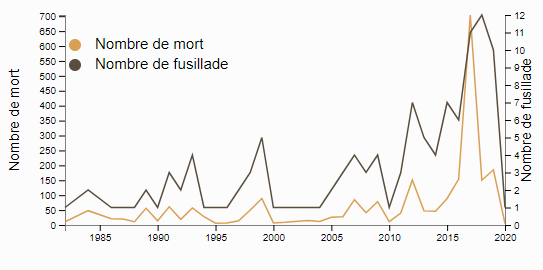
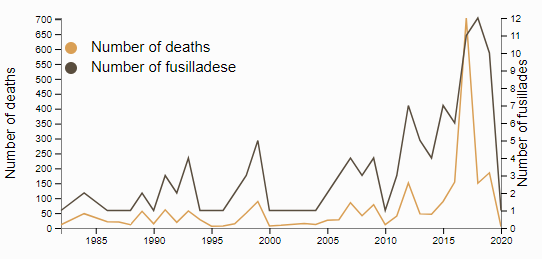
Modification noms

Changed region(s): [[0.0, 0.0309, 1.0, 0.9575]]

diff --git a/d3/lineChart.html b/d3/lineChart.html
@@ -116,7 +116,7 @@
         .attr("x",0 - (height / 2))
         .attr("dy", "1em")
         .style("text-anchor", "middle")
-        .text("Nombre de mort");
+        .text("Number of deaths");
 
         console.log(width);
         svg.append("text")
@@ -125,7 +125,7 @@
         .attr("dy", "1em")
         .attr("transform", "translate( " + (width + 12  ) + ", 0 ) rotate(-90)")
         .style("text-anchor", "middle")
-        .text("Nombre de fusillade");
+        .text("Number of fusillades");
 
         svg.append("path")
           .datum(data)
@@ -139,8 +139,8 @@
 
             svg.append("circle").attr("cx",10).attr("cy",30).attr("r", 6).style("fill", "#D99F55")
             svg.append("circle").attr("cx",10).attr("cy",50).attr("r", 6).style("fill", "#594D3E")
-            svg.append("text").attr("x", 30).attr("y", 30).text("Nombre de mort").style("font-size", "15px").attr("alignment-baseline","middle")
-            svg.append("text").attr("x", 30).attr("y", 50).text("Nombre de fusillade").style("font-size", "15px").attr("alignment-baseline","middle")
+            svg.append("text").attr("x", 30).attr("y", 30).text("Number of deaths").style("font-size", "15px").attr("alignment-baseline","middle")
+            svg.append("text").attr("x", 30).attr("y", 50).text("Number of fusilladese").style("font-size", "15px").attr("alignment-baseline","middle")
 
     })
 

diff --git a/d3/sexe.js b/d3/sexe.js
@@ -7,7 +7,7 @@ d3.csv("../data/us_shootings.csv", (d) => {
     });
     sexe = countOccurences(sexe);
 	// let data = {'m': (sexe.M + sexe.Male), 'f':(sexe.F + sexe.Female)};
-    let data = [{'label': 'Homme', 'value': (sexe.M + sexe.Male)}, {'label': 'Femme', 'value': (sexe.F + sexe.Female)}]
+    let data = [{'label': 'Men', 'value': (sexe.M + sexe.Male)}, {'label': 'Women', 'value': (sexe.F + sexe.Female)}]
 	console.log(data)
 	var svg = d3.select("#sexe")
 	.append("svg")
@@ -43,7 +43,7 @@ svg.attr("transform", "translate(" + width / 2 + "," + height / 2 + ")");
 var key = function(d){ return d.data.label; };
 
 var color = d3.scale.ordinal()
-	.domain(["Homme", "Femme"])
+	.domain(["Men", "Women"])
 	.range(["#06555C", "#BA7E79"]);
 // data = [{'label': 'Homme', 'value': 100}, {'label': 'Femme', 'value': 100}];
 function randomData (){
